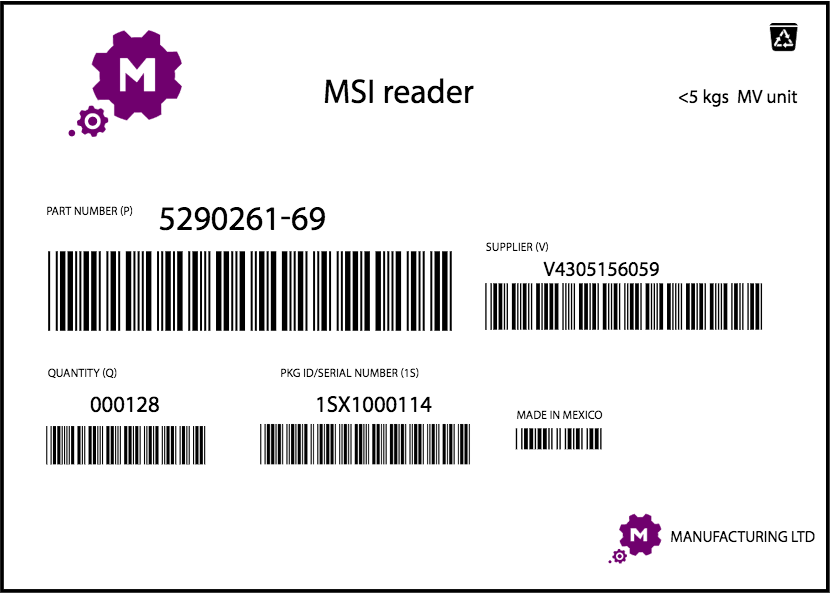
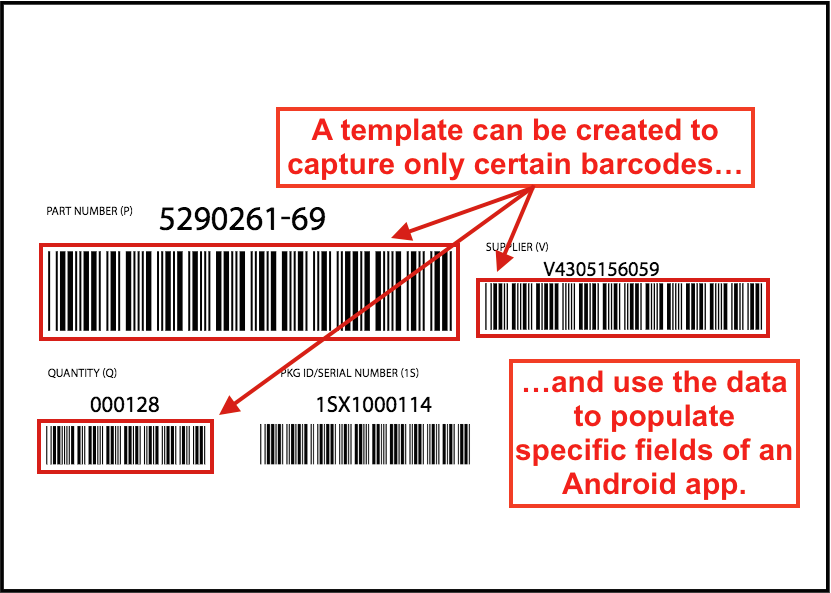
SS 1.1 Template Builder work

diff --git a/src/simulscan/1-1/guide/templatebuilder/index.md b/src/simulscan/1-1/guide/templatebuilder/index.md
@@ -8,46 +8,79 @@ productversion: '1.1'
 ## Overview
 Template Builder is a web-based tool that can quickly define which information will be captured from a scanned document and made available to applications. Templates are the key to controlling the data-capture capabilities of SimulScan and processing acquired data as needed. 
 
-Most data acquisition tasks involve capturing data from printed documents. The size, shape and layout of those documents can vary tremendously, creating equally tremendous complexities for consistent and accurate data capture. Templates solve this problem by "teaching" SimulScan about the documents it will encounter most often, and defining how to process the data. 
-
-Templates work on the principle that the _**location**_ and _**type**_ of data in each field of a form (i.e. barcodes, alphanumeric characters, signatures, etc.) will remain consistent whenever a particular form is used, and that _**only the data will change**_ with each new instance of that form. By creating a SimulScan Template to uniquely identify each region (field) and data type, the developer can map data from each region of the form to a specific field in an application. 
-
-For example, a company that receives regular shipments accompanied with a label like the one below would create a Multi-barcode Template that maps the part and supplier numbers from the barcodes in the upper row, and the quantity-received information from the barcode in the lower-left corner. 
+Most data acquisition tasks involve capturing data from printed documents. The size, shape and layout of such documents can vary tremendously, which makes consistent and accurate data capture a challenge. Templates solve this problem by "teaching" SimulScan about the documents it will encounter most often, and defining how to process the data. 
 
 <img style="height:350px" src="msi_reader.png"/>
-*A typical barcode-only form, SimulScan's most common and effective use case*.
+*A typical barcode-only form, the most common and effective usage scenario for SimulScan*.
 <br>
 
+Templates work on the principle that the _**location**_ and _**type**_ of data in each region of a form (i.e. barcodes, alphanumeric characters, signatures, etc.) will remain consistent and that _**only the data will change**_ with each new instance of that form. By creating a SimulScan Template to uniquely identify each region and data type, the developer can map data from each region to specific fields of an application. 
 
-This document provides details around the various features of the Template Builder and is intended to serve as a user guide for the utility.
+For example, a company that receives regular shipments accompanied with a label like the one above could create a Multi-barcode Template that maps the part number and supplier number from the barcodes in the upper row, and the quantity-received information from the barcode in the lower-left corner to corresponding fields of their application. 
 
+### What's in This Guide
+This guide provides step-by-step instructions for accessing the Template Builder tool online and how to use its drag-and-drop interface to create any required Templates, deploy them to the device and activating them when needed. 
 
-
-**Template Builder Terms**
-
-* **Field -** a region of a form associated with a processing method (barcode, text, etc.)
-* **Template -** 
-
-A Template is always associated with a specific document (i.e. a shipping receipt or other informative label) being targeted for capture and processing. A Template is created by a document is logically broken down into regions of interest, which are called “fields”. These fields are associated with different methods of processing them, called “processing modes”. Some examples of processing modes include: Barcode, Picture, OCR (Optical Character Recognition) and OMR (Optical Mark Recognition). 
-
-The output of this utility is an XML file known here forth as a “Template” which once deployed onto a supported Zebra device can be consumed by the resident SimulScan software via appropriate API’s.
-
+This guide assumes a basic knowledge of SimulScan concepts and terminology. It might be helpful to visit the [About SimulScan](../about) page before proceeding. 
 
 -----
 
-To fully unlock the functionalities of OCR and OMR, you would need to acquire a license and install it on your mobile device.  Multiple barcode- decoding and Picture taking functionalities would not require a license and are available out of the box.
+##Template Builder Terms
+
+**Field -** region of a form associated with a data type and processing method (i.e. a barcode).
+
+**Template -** XML document that defines the fields (regions) of a shipping receipt or other document to be scanned. Templates are always associated with exactly one Document. 
+
+**Document -** printed form containing data to be acquired (i.e. a shipping receipt). Documents should be associated with no more than one Template. 
+
+**OCR -** Optical Character Recognition, a processing mode for acquiring alpha/numeric characters.
+
+**OMR -** Optical Mark Recognition, a processing mode for acquiring binary (yes/no) data from checkboxes.
+
+**Picture -** graphical image to be acquired as a file (i.e. `.jpg` file).
+
+**Signature -** generally of the recipient of a shipment (captured as an image).
+
+**Single-Line -** acquisition using OCR of a single line of alpha/numeric characters (i.e. a product number).
+
+**Multi-Line -** acquisition using OCR of multiple lines of alpha/numeric characters (i.e. a complete address).
+
+**Structured -** describes a Document with a layout that doesn't change from one instance to another.
+
+**Unstructured -** describes a Document with a layout that changes or that has not been defined with a Template.
+
+**Anchor Element(s) -** one or more unchanging images  or other Document attributes (i.e. company logo) that SimulScan can use to determine Document orientation.
+
+**Multi-barcode Mode -** used on forms from which only barcode data will be acquired. This is the most common usage scenario. 
+
+**Mixed-Data Mode -** captures multiple data types from mixed sources, such as barcodes, alpha/numeric characters, checkboxes and images. 
+
+-----
+
+## Using Template Builder 
+Template Builder is free for Zebra customers and partners, but registration is required to access it. SimulScan also can be used without a License if the only requirement is to scan barcodes through an app using [DataWedge](../../../../datawedge). Access to OCR and OMR features or to use SimulScan APIs requires a License. For more information, please see the [Licensing page](../license).
+
+###Create an Account
+&#49;. Visit the [Zebra SimulScan registration page](https://signup.zebra.com/register.html?appId=SIMS), follow prompts to create a free account and enter all requested information. Once an account is created, an email will be sent by Zebra administrators with login information. 
+
+![img](image5.png)
+
+&#50;. Point a browser to [simulscan.zebra.com](https://simulscan.zebra.com) and enter the login information or PartnerKey. A screen similar to the image below appears.  
+
+![img](image6.png)
+
+&#51;. Select the desired template type: 
+
+* **Barcodes only** enables Multi-barcode Mode
+
+* **Structured targets** is for this and that. 
+
+* **Barcodes only**
+
+There are three main types of Templates that can be generated by the Template Builder: “Barcodes Only”,“Structured Targets” & “Unstructured Targets”.
 
 
 After creating the Template, it is output as an .XML file containing details about the various fields, processing modes and other parameters. Since this is a machine generated file, it is highly not recommended that any manual changes be made to this .XML as any manual editing may corrupt its operation. The output .XML file is Base64 encoded for additional safety.
-
-
-The current Template Builder tool can be found here: https://simulscan-uat.motorolasolutions.com.
-
-Features
-Template Types
-There are three main types of Templates that can be generated by the Template Builder: “Barcodes Only”,“Structured Targets” & “Unstructured Targets”.
-
---image--
 
 Barcodes Only Templates cater to the below use-cases:
 Decode multiple barcode(s) simultaneously

diff --git a/src/simulscan/1-1/guide/about/index.md b/src/simulscan/1-1/guide/about/index.md
@@ -10,7 +10,7 @@ SimulScan is an end-to-end data capture solution for developers building apps fo
 
 ###Benefits
 
-* **Decodes multiple barcodes** with a single scan (Multi-barcode mode)
+* **Decodes multiple barcodes** with a single scan (Multi-barcode Mode)
 * **Automates data entry** with optical character recognition (OCR)
 * **Simplifies workflow exceptions** with optical mark recognition (OMR) and Signature presence detection
 * **Improves overall worker efficiency** and accuracy
